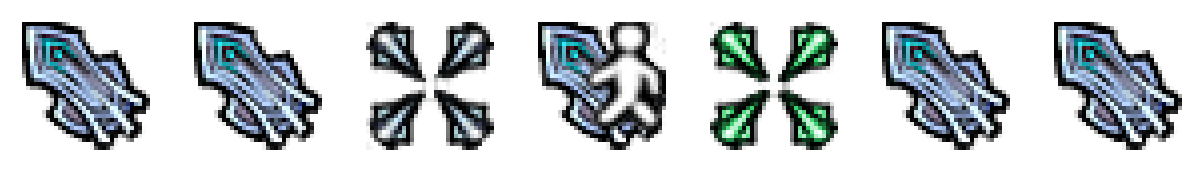
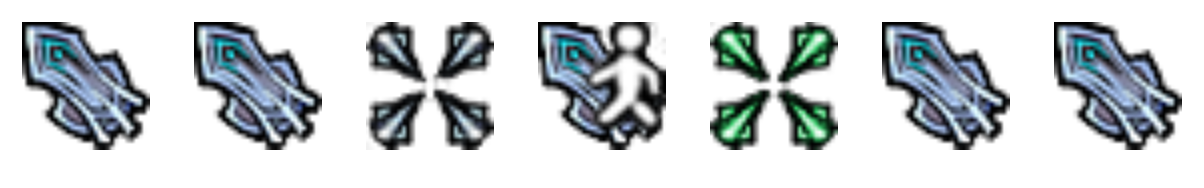
Use real Dota pack names and ship scalable multi-size cursors

diff --git a/README.md b/README.md
@@ -19,7 +19,7 @@ git clone https://github.com/0443n/dota2-cursors-linux
 cd dota2-cursors-linux
 
 ./install.sh --list                      # see all packs
-./install.sh dota2-pw-mirana --apply     # install and set active
+./install.sh dota2-acid-hydra --apply    # install and set active
 ```
 
 `--apply` also switches your active cursor, detecting GNOME, KDE, XFCE, and
@@ -31,36 +31,45 @@ On Wayland you usually have to log out and back in before every app switches ove
 
 ## Packs
 
+Names are the real store names, taken from Dota's item files. The hero each
+pack was made for is in parentheses.
+
 | Preview | Pack | `install.sh` name |
 |---------|------|-------------------|
+| ![](previews/dota2-acid-hydra.png) | Acid Hydra (Venomancer) | `dota2-acid-hydra` |
+| ![](previews/dota2-wrath-of-ka.png) | Wrath of Ka (Necrophos) | `dota2-wrath-of-ka` |
+| ![](previews/dota2-dac-2015-mirana.png) | DAC 2015 Mirana | `dota2-dac-2015-mirana` |
+| ![](previews/dota2-dac-2015-crystal-maiden.png) | DAC 2015 Crystal Maiden | `dota2-dac-2015-crystal-maiden` |
+| ![](previews/dota2-dac-2015-chaos-knight.png) | DAC 2015 Chaos Knight | `dota2-dac-2015-chaos-knight` |
+| ![](previews/dota2-steam-chopper.png) | Steam Chopper (Timbersaw) | `dota2-steam-chopper` |
+| ![](previews/dota2-unbroken-stallion.png) | Unbroken Stallion (Centaur) | `dota2-unbroken-stallion` |
+| ![](previews/dota2-warcog.png) | Warcog (Clockwerk) | `dota2-warcog` |
+| ![](previews/dota2-tine-of-the-behemoth.png) | Tine of the Behemoth (Earthshaker) | `dota2-tine-of-the-behemoth` |
+| ![](previews/dota2-emerald-sea.png) | Emerald Sea | `dota2-emerald-sea` |
+| ![](previews/dota2-guardian-of-the-holy-flame.png) | Guardian of the Holy Flame (Sven) | `dota2-guardian-of-the-holy-flame` |
+| ![](previews/dota2-the-summit-3.png) | The Summit 3 | `dota2-the-summit-3` |
 | ![](previews/dota2-default.png) | Default | `dota2-default` |
-| ![](previews/dota2-pw-mirana.png) | Mirana | `dota2-pw-mirana` |
-| ![](previews/dota2-pw-crystal-maiden.png) | Crystal Maiden | `dota2-pw-crystal-maiden` |
-| ![](previews/dota2-pw-chaos.png) | Chaos Knight | `dota2-pw-chaos` |
-| ![](previews/dota2-dcveno.png) | Venomancer | `dota2-dcveno` |
-| ![](previews/dota2-dctimber-fancy.png) | Timbersaw | `dota2-dctimber-fancy` |
-| ![](previews/dota2-berserker-centaur.png) | Centaur Warrunner | `dota2-berserker-centaur` |
-| ![](previews/dota2-war-machine-clockwork.png) | Clockwerk | `dota2-war-machine-clockwork` |
-| ![](previews/dota2-sltv-shaker.png) | Earthshaker | `dota2-sltv-shaker` |
-| ![](previews/dota2-necronub.png) | Necro | `dota2-necronub` |
-| ![](previews/dota2-emerald-ocean.png) | Emerald Ocean | `dota2-emerald-ocean` |
-| ![](previews/dota2-guardian-of-the-holy-flame.png) | Guardian of the Holy Flame | `dota2-guardian-of-the-holy-flame` |
-| ![](previews/dota2-bts3.png) | BTS | `dota2-bts3` |
 
 Each row shows, left to right: arrow, link, crosshair, move, drag, not-allowed, help.
 
 ## Notes
 
-The cursors are static. Dota's cursor files are single frames; the glow and
-motion you see in-game are added by the engine while you play, not stored in the
-art. These are the same images, standing still.
+The cursors scale. Each one ships several sizes (24 up to 192 px), so the
+cursor-size slider in your desktop settings works. The art starts from Dota's
+32px originals, so the largest sizes are upscaled and look a little soft up
+close.
 
-They're 32x32, the size Dota ships them at. That looks fine on a normal display.
-On a high-DPI screen they come out small unless your desktop scales cursors up
-for you.
+They're static. Dota's cursor files are single frames; the glow and motion you
+see in-game are added by the engine while you play, not stored in the art. These
+are the same images, standing still.
 
 Dota has no text caret, busy spinner, or resize handles, so those three reuse
 the arrow and move cursors instead of borrowing from another theme.
+
+Inside each `cursors/` folder the real files use the current freedesktop names
+(`default`, `pointer`, `crosshair`, and so on). Everything else is a symlink:
+old X11 names like `left_ptr`, plus the hex-named files (`03b6e0fc...`) that some
+web browsers ask for by hash instead of by name.
 
 ## About the artwork
 